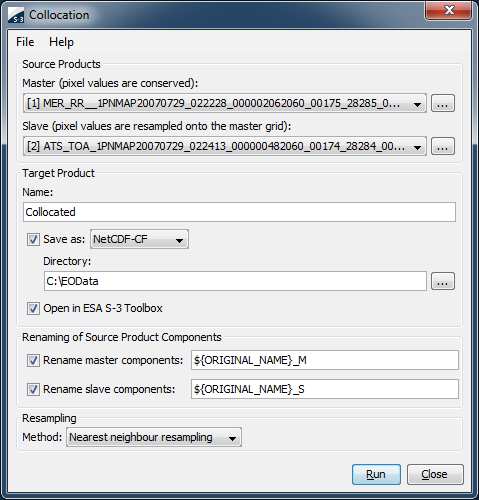
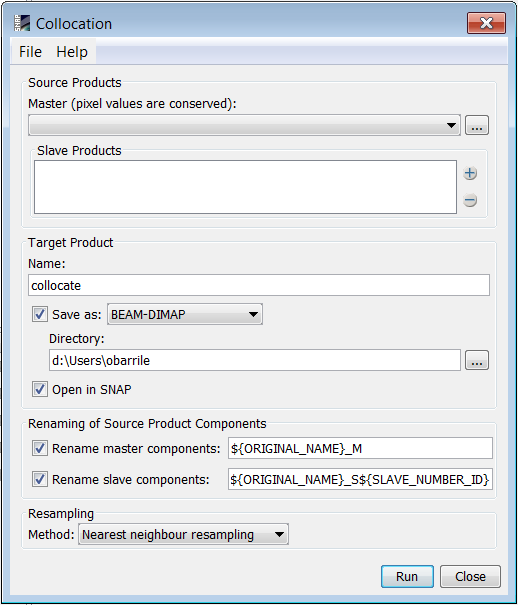
Update collocation help

diff --git a/snap-collocation-ui/src/main/resources/org/esa/snap/collocation/docs/collocation/CollocationTool.html b/snap-collocation-ui/src/main/resources/org/esa/snap/collocation/docs/collocation/CollocationTool.html
@@ -35,10 +35,10 @@
 <h3>Introduction</h3>
 
 <p>
-    The <em>Collocation Tool</em> allows to collocate two spatially
-    overlapping products. Collocating two products implies that the pixel
-    values of one product (the <em>slave</em>) are resampled into the geographical
-    raster of the other (the <em>master</em>).
+    The <em>Collocation Tool</em> allows to collocate spatially
+    overlapping products. Collocating products implies that the pixel
+    values of slave products are resampled into the geographical
+    raster of the master product.
 </p>
 
 <p>
@@ -50,14 +50,14 @@
 <h3>Algorithm</h3>
 
 <p>
-    When two products are collocated, a new product is created which contains a
+    When products are collocated, a new product is created which contains a
     copy of all components of the master product, i.e. band data, tie-point grids,
     flag codings, bitmask definitions, and metadata. The components of the slave
-    product are transfered in a different manner:
+    products are transfered in a different manner:
 </p>
 
 <p>
-    The band data of the slave product are resampled into the geographical
+    The band data of the slave products are resampled into the geographical
     raster of the master product. The user may choose between three different
     resampling methods: <a href="../general/ResamplingMethods.html">Nearest
     Neighbour</a>, <a href="../general/ResamplingMethods.html">Bilinear
@@ -76,7 +76,7 @@
 
 <p>
     As for the master product, the tie-point grids, flag codings and bitmask
-    definitions of the slave product are copied. Slave product metadata are not
+    definitions of the slave products are copied. Slave product metadata are not
     transfered.
 </p>
 
@@ -87,7 +87,7 @@
     by selecting <b>Processing->Geometric Operations->Collocation...</b>,
     or in batch mode by using the command line
     tool <i><code>gpt</code></i> (Graph Processing Tool) which is located
-    in the SeSentinel Toolboxcode>bin</code> directory. For the latter type
+    in the <code>bin</code> directory. For the latter type
     <code>gpt Collocate -h</code> for further information.
 </p>
 
@@ -112,10 +112,8 @@
 
 <p class="i1">
     <b>Slave:</b>
-    Here the user specifies the slave product. The combo box presents
-    a list of all products opened in the Sentinel Toolbox. The user may select one of these
-    or, by clicking on the button next to the combo box, choose a product
-    from the file system.
+    Here the user specifies the slave products. The user may select products
+    opened in SNAP or products from the file system.
 </p>
 
 <h5>Target Product Group</h5>
@@ -159,10 +157,11 @@
     <b>Rename slave components:</b>
     By checking or unchecking this option the automatic renaming of slave product
     components can be activated or deactivated, respectively. If activated, all
-    components of the slave product are renamed according to the
+    components of the slave products are renamed according to the
     pattern given in the text field next to the check box. The expression
-    <code>${ORIGINAL_NAME}</code> can be used to refer to the original name of the
-    component.
+    <code>${ORIGINAL_NAME}</code> or <code>${SLAVE_NUMBER_ID}</code> can be used
+    to refer to the original name of the component or the id of the slave (0,1,2...)
+    respectively.
 </p>
 
 <h5>Resampling Group</h5>

diff --git a/snap-help/src/main/resources/org/esa/snap/snap/help/docs/desktop/Resample.html b/snap-help/src/main/resources/org/esa/snap/snap/help/docs/desktop/Resample.html
@@ -84,6 +84,10 @@
     <tr>
         <td style="border-width:0;" valign="top">
 
+            <p align="center">
+                <img src="images/ResamplingDialog.png" alt="Resampling Dialog"/>
+            </p>
+
             <h5>Reference band</h5>
 
             <p class="i1">
@@ -92,7 +96,19 @@
                 The user can select any of the bands available in the product.
             </p>
 
-            <h5>Interpolation Method</h5>
+            <h5>Target width and height</h5>
+
+            <p class="i1">
+                All nodes will be resampled to match this size.
+            </p>
+
+            <h5>Pixel resolution</h5>
+
+            <p class="i1">
+                All nodes will be resampled to the selected resolution.
+            </p>
+
+            <h5>Upsampling Method</h5>
 
             <p class="i1">
                 Defines how bands shall be resampled from a coarser grid onto a finer grid.
@@ -115,7 +131,7 @@
                 Calculation of the new pixel value is performed by weighting the 16 surrounding pixels.
             </p>
 
-            <h5>Aggregation Method</h5>
+            <h5>Downsampling Method</h5>
 
             <p class="i1">
                 Defines how bands shall be resampled from a finer grid onto a coarser grid.
@@ -183,6 +199,18 @@
                 <b>MaxMedian:</b>
                 A flag is set if it is set for at least half of the pixels that need to be combined.
                 If it is set for exactly half the pixels, it is set for the output pixel.
+            </p>
+
+            <h5>Advanced method definition</h5>
+
+            <p class="i1">
+                A table allow to select the resampling methods individually for each band.
+                It is also possible save the preset or to load a saved one.
+                The preset is a csv file containing a line for each band with the following structure:
+            </p>
+
+            <p class="i1">
+                [bandName]:[DownsamplingMethod]:[UpsamplingMethod]
             </p>
 
         </td>

diff --git a/snap-help/src/main/resources/org/esa/snap/snap/help/docs/desktop/ProductSubsetDialog.html b/snap-help/src/main/resources/org/esa/snap/snap/help/docs/desktop/ProductSubsetDialog.html
@@ -33,9 +33,6 @@
 
 <h3>Product Subset Definition</h3>
 
-<p>This dialog appears from various import and export file chooser dialogs and
-    always if a new product has to be created from a base product, such as in the
-    <a href="BandMaths.html">Band Maths</a> dialog.</p>
 
 <p align="center"><img src="images/SubsetDialog.png"><br>
 </p>
@@ -53,6 +50,12 @@
 </p>
 <p>You can also specify a sub-sampling, by setting the values of
     <code>Scene step X</code> and <code>Scene step Y</code>.
+</p>
+
+<p>When the input is a multisize product a combo for selecting the reference band
+    is available. The pixel coordinates used are the pixel coordinates in this reference band.<br>
+</p>
+<p align="center"><img src="images/SubsetDialogMultisize.png"><br>
 </p>
 
 <p class="inote">

diff --git a/snap-smart-configurator-ui/src/main/javahelp/org/esa/snap/snap/smart/configurator/ui/docs/performanceparameters/PerformanceParameters.html b/snap-smart-configurator-ui/src/main/javahelp/org/esa/snap/snap/smart/configurator/ui/docs/performanceparameters/PerformanceParameters.html
@@ -37,7 +37,7 @@
 
 </p>
 
-<img src="images/snap-smart-configurator-ui-preferences-without-tilesize.jpg" border=0/>
+<img src="images/smart-configurator-ui.png" border=0/>
 
 <h4><a name="systemParameters">System</a></h4>
 
@@ -60,7 +60,11 @@
         improve performances for some operations.<br>
         To browse threw the file system to manually change the data path, press the <img src="images/ThreeDotsButton.jpg" border=0/> button
     </li>
+
+    <li><b>Cache size</b><br>
+        Defines the default cache size in MB.
     <li>
+
         <b>Compute</b><br>
 
         <p>The compute button is calculating optimum memory and cache path parameters for your system
